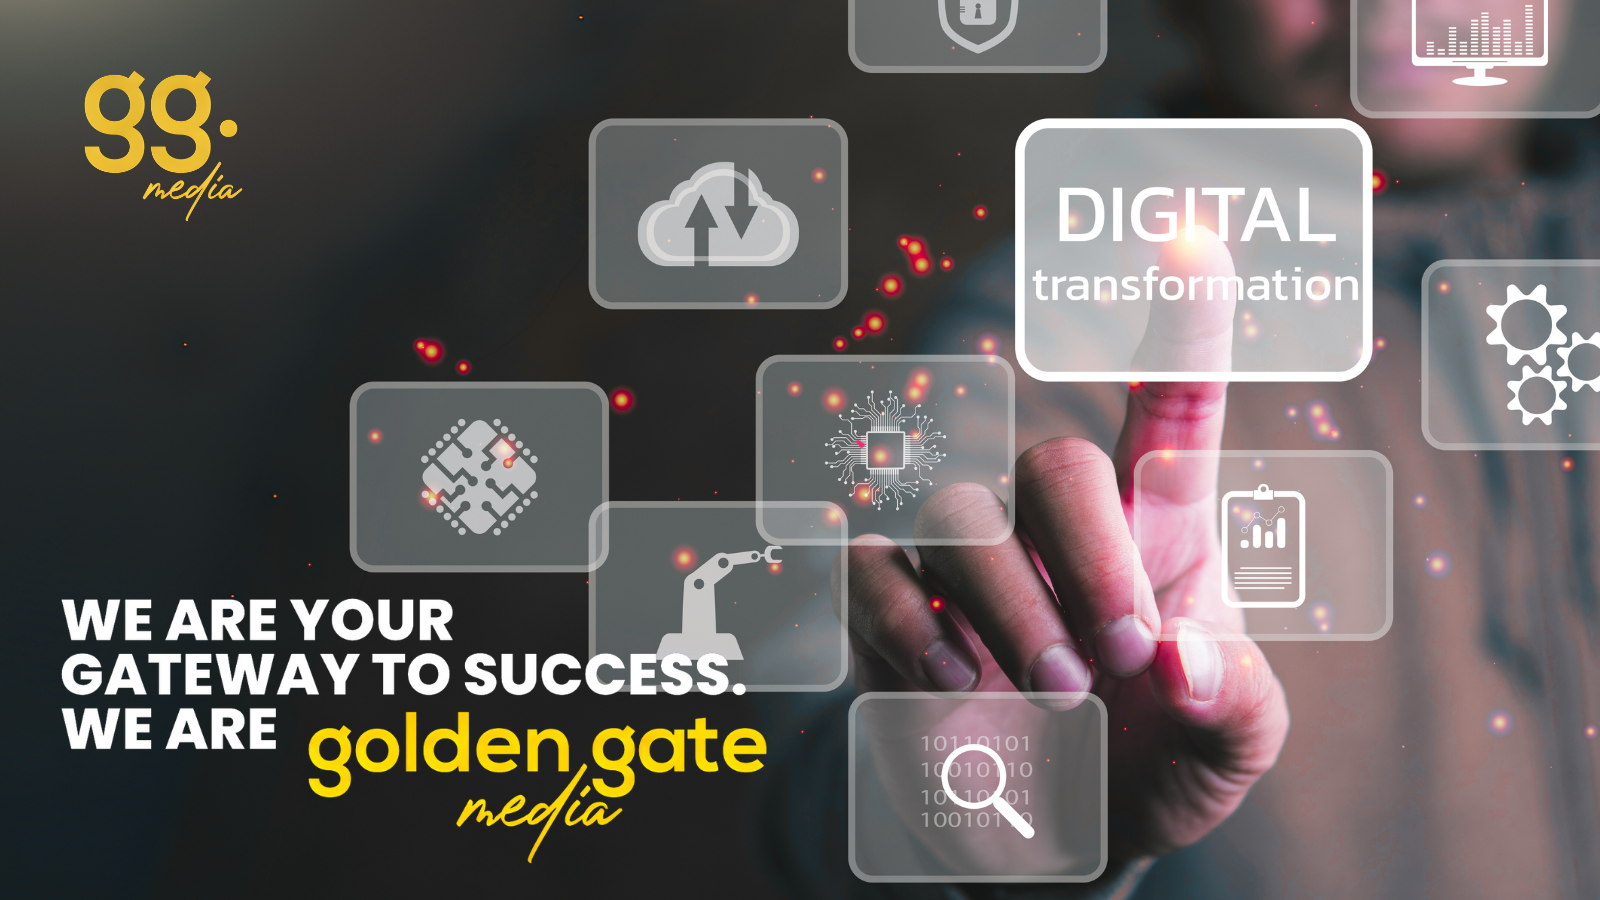
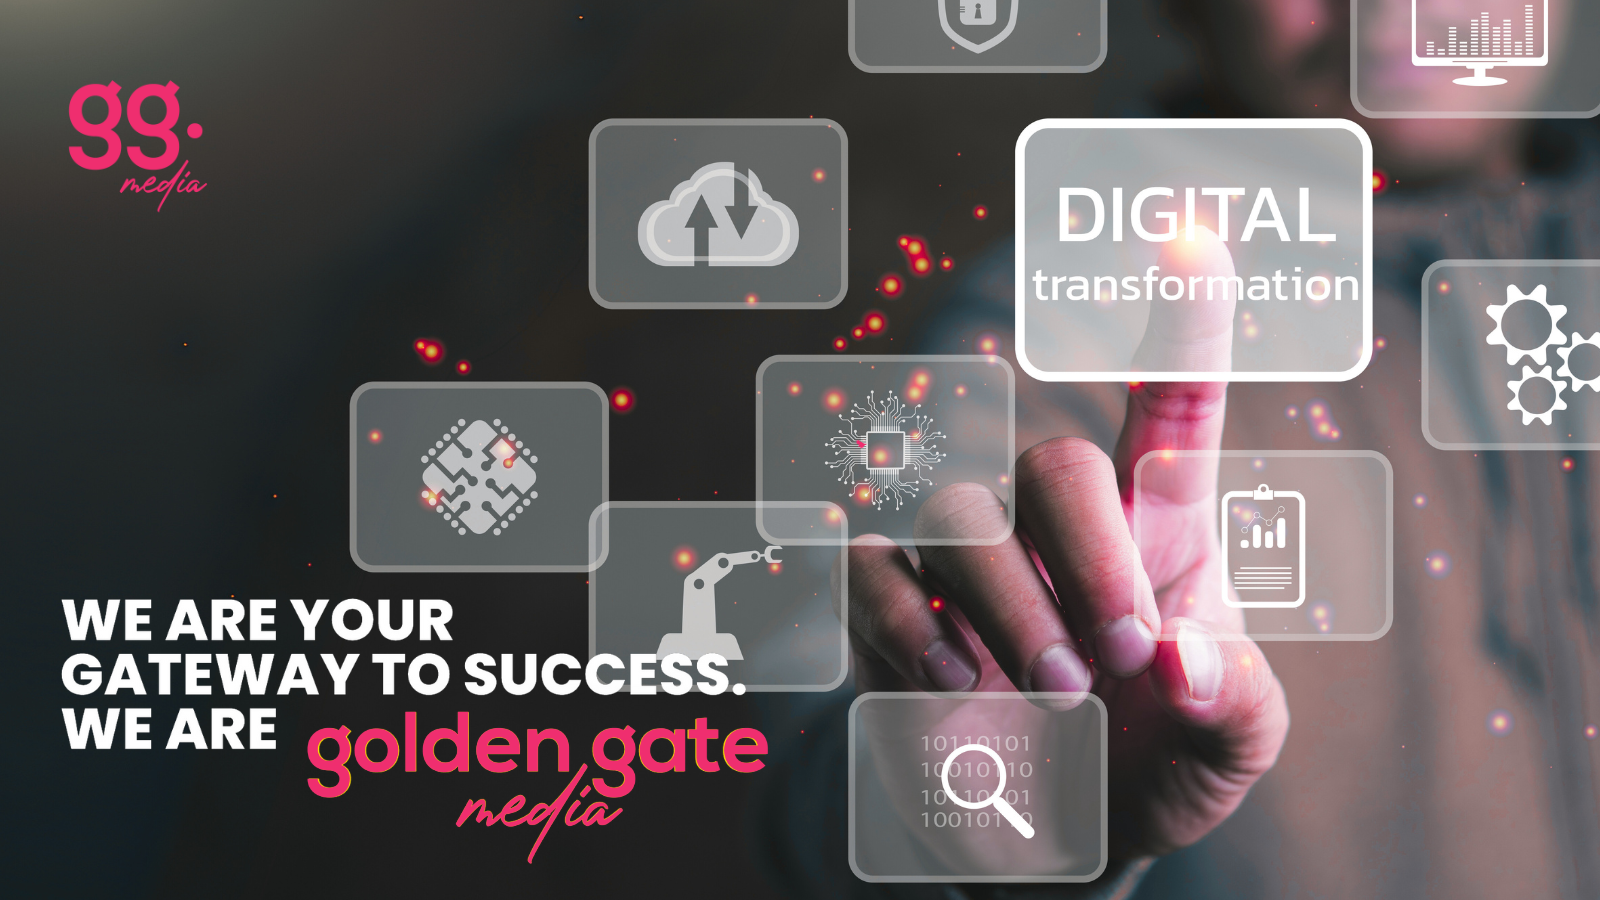
fix: Branding pink

Changed region(s): [[0.1875, 0.7778, 0.5, 0.9333], [0.0312, 0.0622, 0.1562, 0.2489]]

diff --git a/src/app/globals.css b/src/app/globals.css
@@ -227,22 +227,22 @@
   --popover-foreground: oklch(0.145 0 0);
   --primary: oklch(0.205 0 0);
   --primary-foreground: oklch(0.985 0 0);
-  --secondary: oklch(85.5% 0.165 83.87); /* More vibrant gold */
+  --secondary: oklch(65% 0.27 0.1); /* Lighter version of #EF2D6F */
   --secondary-foreground: oklch(0.205 0 0);
   --muted: oklch(0.97 0 0);
   --muted-foreground: oklch(0.556 0 0);
   --accent: oklch(100% 0 0);
-  --accent-foreground: oklch(80.3% 0.178 83.54); /* Richer gold tone */
+  --accent-foreground: oklch(65% 0.27 0.1); /* Lighter version of #EF2D6F */
   --destructive: oklch(0.577 0.245 27.325);
   --destructive-foreground: oklch(0.577 0.245 27.325);
   --border: oklch(0.922 0 0);
   --input: oklch(0.922 0 0);
   --ring: oklch(0.708 0 0);
-  --chart-1: oklch(0.769 0.188 70.08); /* Gold tone */
-  --chart-2: oklch(0.828 0.189 84.429); /* Brighter gold */
-  --chart-3: oklch(0.75 0.195 75.5); /* Rich gold */
-  --chart-4: oklch(0.82 0.21 80.704); /* Vibrant gold */
-  --chart-5: oklch(0.65 0.22 65.08); /* Deeper gold */
+  --chart-1: oklch(65% 0.27 0.1); /* Lighter version of #EF2D6F */
+  --chart-2: oklch(68% 0.27 0.1); /* Slightly lighter */
+  --chart-3: oklch(65% 0.27 0.1); /* Lighter version of #EF2D6F */
+  --chart-4: oklch(70% 0.27 0.1); /* Even lighter */
+  --chart-5: oklch(62% 0.27 0.1); /* Slightly darker for contrast */
   --radius: 0.625rem;
   --sidebar: oklch(0.985 0 0);
   --sidebar-foreground: oklch(0.145 0 0);
@@ -263,7 +263,7 @@
   --popover-foreground: oklch(0.985 0 0);
   --primary: oklch(0.985 0 0);
   --primary-foreground: oklch(0.205 0 0);
-  --secondary: oklch(80.3% 0.178 83.54); /* Gold instead of blue */
+  --secondary: oklch(65% 0.27 0.1); /* Pink instead of gold */
   --secondary-foreground: oklch(0.985 0 0);
   --muted: oklch(0.269 0 0);
   --muted-foreground: oklch(0.708 0 0);
@@ -274,14 +274,14 @@
   --border: oklch(0.269 0 0);
   --input: oklch(0.269 0 0);
   --ring: oklch(0.439 0 0);
-  --chart-1: oklch(0.769 0.188 70.08); /* Gold tone */
-  --chart-2: oklch(0.828 0.189 84.429); /* Brighter gold */
-  --chart-3: oklch(0.75 0.195 75.5); /* Rich gold */
-  --chart-4: oklch(0.627 0.265 83.54); /* Gold instead of purple */
-  --chart-5: oklch(0.645 0.246 83.54); /* Gold instead of red */
+  --chart-1: oklch(65% 0.27 0.1); /* Pink tone */
+  --chart-2: oklch(68% 0.27 0.1); /* Slightly lighter pink */
+  --chart-3: oklch(65% 0.27 0.1); /* Pink */
+  --chart-4: oklch(70% 0.27 0.1); /* Even lighter pink */
+  --chart-5: oklch(62% 0.27 0.1); /* Slightly darker pink for contrast */
   --sidebar: oklch(0.205 0 0);
   --sidebar-foreground: oklch(0.985 0 0);
-  --sidebar-primary: oklch(0.769 0.188 70.08); /* Gold instead of blue */
+  --sidebar-primary: oklch(65% 0.27 0.1); /* Pink instead of gold */
   --sidebar-primary-foreground: oklch(0.985 0 0);
   --sidebar-accent: oklch(0.269 0 0);
   --sidebar-accent-foreground: oklch(0.985 0 0);

diff --git a/src/components/sections/services-section.tsx b/src/components/sections/services-section.tsx
@@ -2,7 +2,6 @@
 
 import { SectionHeader } from '@/components/section-header';
 import { siteConfig } from '@/lib/config';
-import { motion } from 'motion/react';
 import { Target, Sparkle, Robot } from '@phosphor-icons/react';
 
 export function ServicesSection() {
@@ -12,11 +11,11 @@ export function ServicesSection() {
   const getIconComponent = (icon: string) => {
     switch (icon) {
       case '🎯':
-        return <Target size={32} weight='fill' />;
+        return <Target size={32} weight='fill' className='text-secondary' />;
       case '✨':
-        return <Sparkle size={32} weight='fill' />;
+        return <Sparkle size={32} weight='fill' className='text-secondary' />;
       case '🤖':
-        return <Robot size={32} weight='fill' />;
+        return <Robot size={32} weight='fill' className='text-secondary' />;
       default:
         return null;
     }
@@ -36,13 +35,9 @@ export function ServicesSection() {
         </p>
       </SectionHeader>
       <div className='grid grid-cols-1 md:grid-cols-2 lg:grid-cols-3 gap-8 w-full max-w-7xl px-10'>
-        {items.map((item, i) => (
-          <motion.div
+        {items.map((item) => (
+          <div
             key={`service-${item.title}`}
-            initial={{ opacity: 0, y: 20 }}
-            whileInView={{ opacity: 1, y: 0 }}
-            transition={{ duration: 0.5, delay: i * 0.1 }}
-            viewport={{ once: true }}
             className='flex flex-col gap-6 p-6 rounded-3xl border border-border/40 bg-card/50 backdrop-blur-sm text-card-foreground 
               shadow-lg hover:shadow-2xl hover:border-primary/30 hover:-translate-y-1 
               transition-all duration-300 group relative overflow-hidden'
@@ -63,7 +58,7 @@ export function ServicesSection() {
               className='absolute inset-0 bg-gradient-to-br from-transparent via-transparent to-secondary/5 
               group-hover:to-secondary/10 transition-colors duration-300'
             />
-          </motion.div>
+          </div>
         ))}
       </div>
     </section>

diff --git a/src/components/sections/navbar.tsx b/src/components/sections/navbar.tsx
@@ -1,12 +1,13 @@
 'use client';
 
-import { Icons } from '@/components/icons';
+// import { Icons } from '@/components/icons';
 import { NavMenu } from '@/components/nav-menu';
 import { ThemeToggle } from '@/components/theme-toggle';
 import { siteConfig } from '@/lib/config';
 import { cn } from '@/lib/utils';
 import { Menu, X } from 'lucide-react';
 import { AnimatePresence, motion, useScroll } from 'motion/react';
+import Image from 'next/image';
 import Link from 'next/link';
 import { useEffect, useState } from 'react';
 
@@ -112,8 +113,12 @@ export function Navbar() {
         >
           <div className='flex h-[56px] items-center justify-between p-4'>
             <Link href='/' className='flex items-center gap-3'>
-              <Icons.logo className='size-7 md:size-10' />
-              <p className='text-lg font-semibold text-primary'>GGM</p>
+              <Image
+                src='/logo.png'
+                alt='Golden Gate Media'
+                width={102}
+                height={52}
+              />
             </Link>
 
             <NavMenu />
@@ -168,11 +173,13 @@ export function Navbar() {
               {/* Mobile menu content */}
               <div className='flex flex-col gap-4'>
                 <div className='flex items-center justify-between'>
-                  <Link href='/' className='flex items-center gap-3'>
-                    <Icons.logo className='size-7 md:size-10' />
-                    <p className='text-lg font-semibold text-primary'>
-                      Golden Gate Media
-                    </p>
+                  <Link href='/' className='flex items-center gap-3 '>
+                    <Image
+                      src='/logo.png'
+                      alt='Golden Gate Media'
+                      width={102}
+                      height={26}
+                    />
                   </Link>
                   <button
                     type='button'

diff --git a/src/components/sections/footer-section.tsx b/src/components/sections/footer-section.tsx
@@ -5,16 +5,22 @@ import { FlickeringGrid } from '@/components/ui/flickering-grid';
 import { useMediaQuery } from '@/hooks/use-media-query';
 import { siteConfig } from '@/lib/config';
 import Link from 'next/link';
+import Image from 'next/image';
+
 export function FooterSection() {
   const tablet = useMediaQuery('(max-width: 1024px)');
 
   return (
     <footer id='footer' className='w-full pb-0'>
       <div className='flex flex-col md:flex-row md:items-center md:justify-between pt-20 px-10'>
-        <div className='flex flex-col items-start justify-start gap-y-5 max-w-xs mx-0'>
+        <div className='flex flex-col items-start justify-start gap-y-5 max-w-lg mx-0'>
           <Link href='/' className='flex items-center gap-2'>
-            <Icons.logo className='size-8' />
-            <p className='text-xl font-semibold text-primary'>GGM</p>
+            <Image
+              src='/logo.png'
+              alt='Golden Gate Media'
+              width={152}
+              height={26}
+            />
           </Link>
           <p className='tracking-tight text-muted-foreground font-medium'>
             {siteConfig.hero.description}

diff --git a/src/components/sections/bento-section.tsx b/src/components/sections/bento-section.tsx
@@ -11,7 +11,7 @@ export function BentoSection() {
       id='bento'
       className='flex flex-col items-center justify-center w-full relative px-5 md:p-10 '
     >
-      <div className='border-x mx-5 md:mx-10 relative'>
+      <div className='border-x  md:mx-10 relative'>
         <div className='absolute top-0 -left-4 md:-left-14 h-full w-4 md:w-14 text-primary/5 bg-[size:10px_10px] [background-image:repeating-linear-gradient(315deg,currentColor_0_1px,#0000_0_50%)]'></div>
         <div className='absolute top-0 -right-4 md:-right-14 h-full w-4 md:w-14 text-primary/5 bg-[size:10px_10px] [background-image:repeating-linear-gradient(315deg,currentColor_0_1px,#0000_0_50%)]'></div>
 

diff --git a/src/app/layout.tsx b/src/app/layout.tsx
@@ -41,7 +41,7 @@ export default function RootLayout({
       >
         <ThemeProvider
           attribute='class'
-          defaultTheme='system'
+          defaultTheme='dark'
           enableSystem
           disableTransitionOnChange
         >
